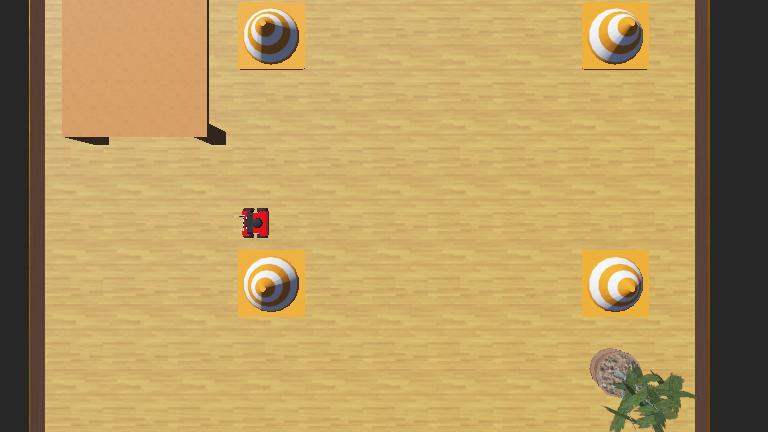
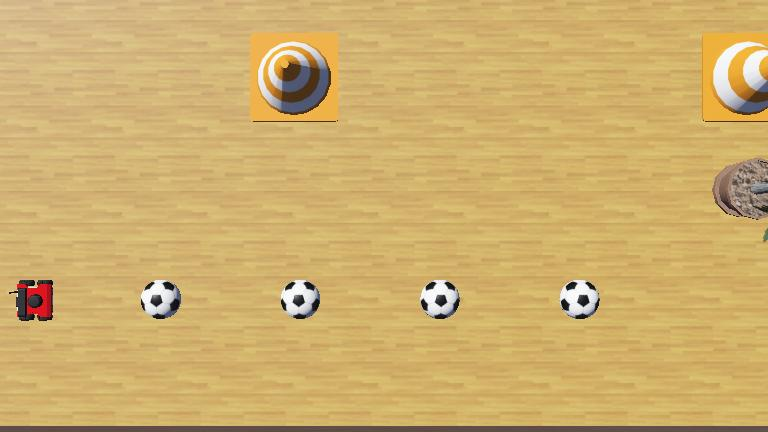
Collection of way-points for passing soccer balls added

diff --git a/ros2webots_rosbot/simulink_models/ros2webots_go_to_point_controller_model_cg_ert_rtw/ros2webots_go_to_point_controller_model_cg.cpp b/ros2webots_rosbot/simulink_models/ros2webots_go_to_point_controller_model_cg_ert_rtw/ros2webots_go_to_point_controller_model_cg.cpp
@@ -30,7 +30,7 @@ const uint8_T ros2webots_go_IN_controller_off{ 1U };
 
 const uint8_T ros2webots_go__IN_controller_on{ 2U };
 
-const real_T ros2webots_param_error_distance{ 0.2 };
+const real_T ros2webots_param_error_distance{ 0.05 };
 
 // Exported data definition
 
@@ -39,13 +39,13 @@ const real_T ros2webots_param_error_distance{ 0.2 };
 const real_T laterl_PID_kd{ 0.0 };    // Referenced by: '<S31>/Derivative Gain'
 
 // Lateral PID controller gain: Kd
-const real_T laterl_PID_ki{ 0.2 };     // Referenced by: '<S34>/Integral Gain'
+const real_T laterl_PID_ki{ 0.3 };     // Referenced by: '<S34>/Integral Gain'
 
 // Lateral PID controller gain: Ki
-const real_T laterl_PID_kp{ 1.0 };  // Referenced by: '<S42>/Proportional Gain'
+const real_T laterl_PID_kp{ 1. };  // Referenced by: '<S42>/Proportional Gain'
 
 // Lateral PID controller gain: Kp
-const real_T longitudinal_speed_gain{ 0.2 };// Referenced by: '<S1>/Gain'
+const real_T longitudinal_speed_gain{ 0.1 };// Referenced by: '<S1>/Gain'
 
 // The gain thay manipulate main state machine velocity command
 real_T rt_atan2d_snf(real_T u0, real_T u1)
@@ -196,18 +196,18 @@ void ros2webots_go_to_point_controller_model_cg::step()
 
   // Saturate: '<S1>/Saturation'
   if (ros2webots_go_to_point_contro_Y.command_steering_angle >
-      0.78539816339744828) {
+      (2*0.78539816339744828)) {
     // Sum: '<S46>/Sum' incorporates:
     //   Outport: '<Root>/command_steering_angle'
 
-    ros2webots_go_to_point_contro_Y.command_steering_angle = 0.78539816339744828;
+    ros2webots_go_to_point_contro_Y.command_steering_angle = 2*0.78539816339744828;
   } else if (ros2webots_go_to_point_contro_Y.command_steering_angle <
-             -0.78539816339744828) {
+             (2*-0.78539816339744828)) {
     // Sum: '<S46>/Sum' incorporates:
     //   Outport: '<Root>/command_steering_angle'
 
     ros2webots_go_to_point_contro_Y.command_steering_angle =
-      -0.78539816339744828;
+      2*-0.78539816339744828;
   }
 
   // End of Saturate: '<S1>/Saturation'

diff --git a/ros2webots_rosbot/src/rosbot_way_point_tracker_node.cpp b/ros2webots_rosbot/src/rosbot_way_point_tracker_node.cpp
@@ -1,6 +1,7 @@
 #include <iostream>
 #include <termios.h>
 #include <unistd.h>
+#include <vector>
 #include "rclcpp/rclcpp.hpp"
 #include "geometry_msgs/msg/twist.hpp"
 #include "nav_msgs/msg/odometry.hpp"
@@ -33,6 +34,10 @@ private:
   // Desiered position data
   // TO DO --> Later we have to received them from a mission (path) planner
   double x_des = 2.; double y_des = 1.; double yaw_des = 0.;
+  std::vector<double> x_des_vec = {0.0,   0.6,  1.4,    2.2,  3.2,  2.0,   0.2, 0.0};
+  std::vector<double> y_des_vec = {0.0, -0.45, 0.45,  -0.45, 0.45,-0.45, -0.45, 0.0};
+  int des_point_index = 0;
+
 
   // Way point tracker SDK class object
   ros2webots_go_to_point_controller_model_cg wayPointTrackerControllerObject;
@@ -48,8 +53,9 @@ private:
       controller_input.x_act    = ReceivedActualLocalizationData_.pose.pose.position.x;
       controller_input.y_act    = ReceivedActualLocalizationData_.pose.pose.position.y;
       controller_input.yaw_act  = ReceivedActualLocalizationData_.pose.pose.orientation.z;
-      controller_input.x_des    = x_des;    // TO DO --> Path planner node
-      controller_input.y_des    = y_des;    // TO DO --> Path planner node
+      if(des_point_index>x_des_vec.size()){des_point_index = 0;}
+      controller_input.x_des    = x_des_vec[des_point_index];    // TO DO --> Path planner node
+      controller_input.y_des    = y_des_vec[des_point_index];    // TO DO --> Path planner node
       controller_input.yaw_des  = yaw_des;  // TO DO --> Path planner node
 
       wayPointTrackerControllerObject.setExternalInputs(&controller_input);
@@ -59,6 +65,9 @@ private:
 
       // Get controller calculations
       controller_output = wayPointTrackerControllerObject.getExternalOutputs();
+
+      // Control reaching to the next way point
+      if(controller_output.controller_state == 0) {des_point_index++;}
 
       // Assign twist command
       twistCommand.linear.x   = controller_output.command_velocity;
